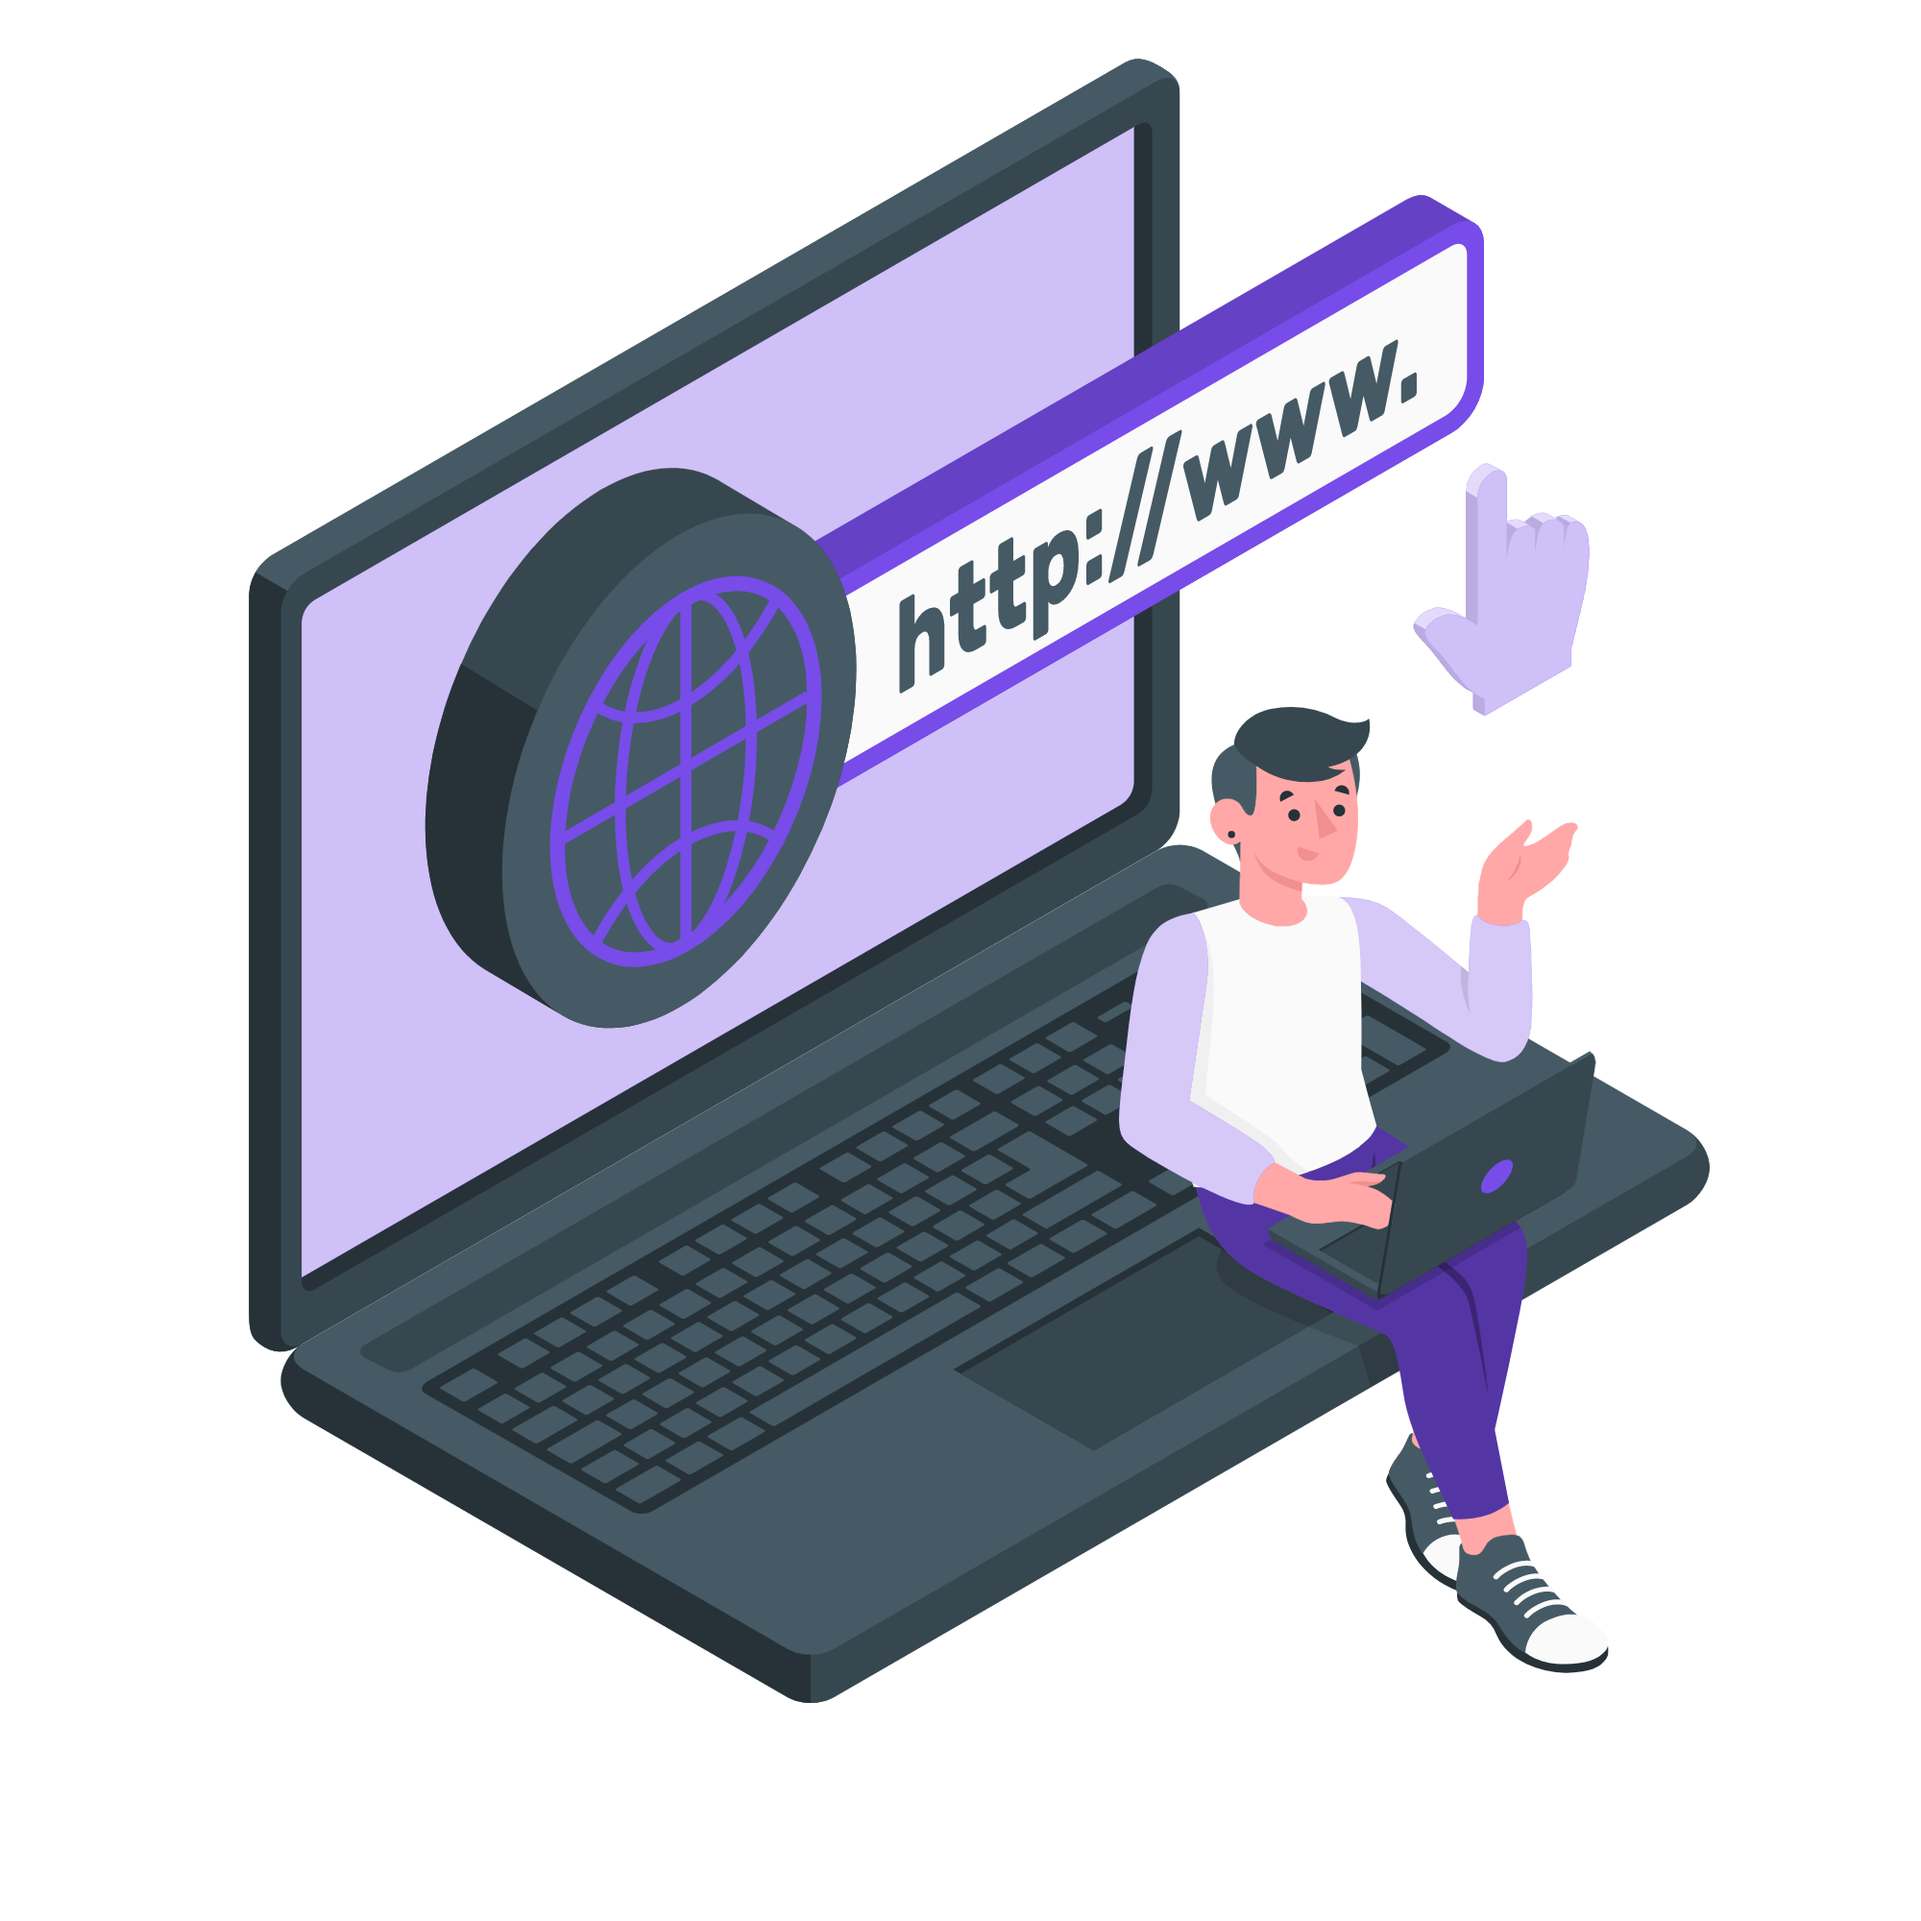
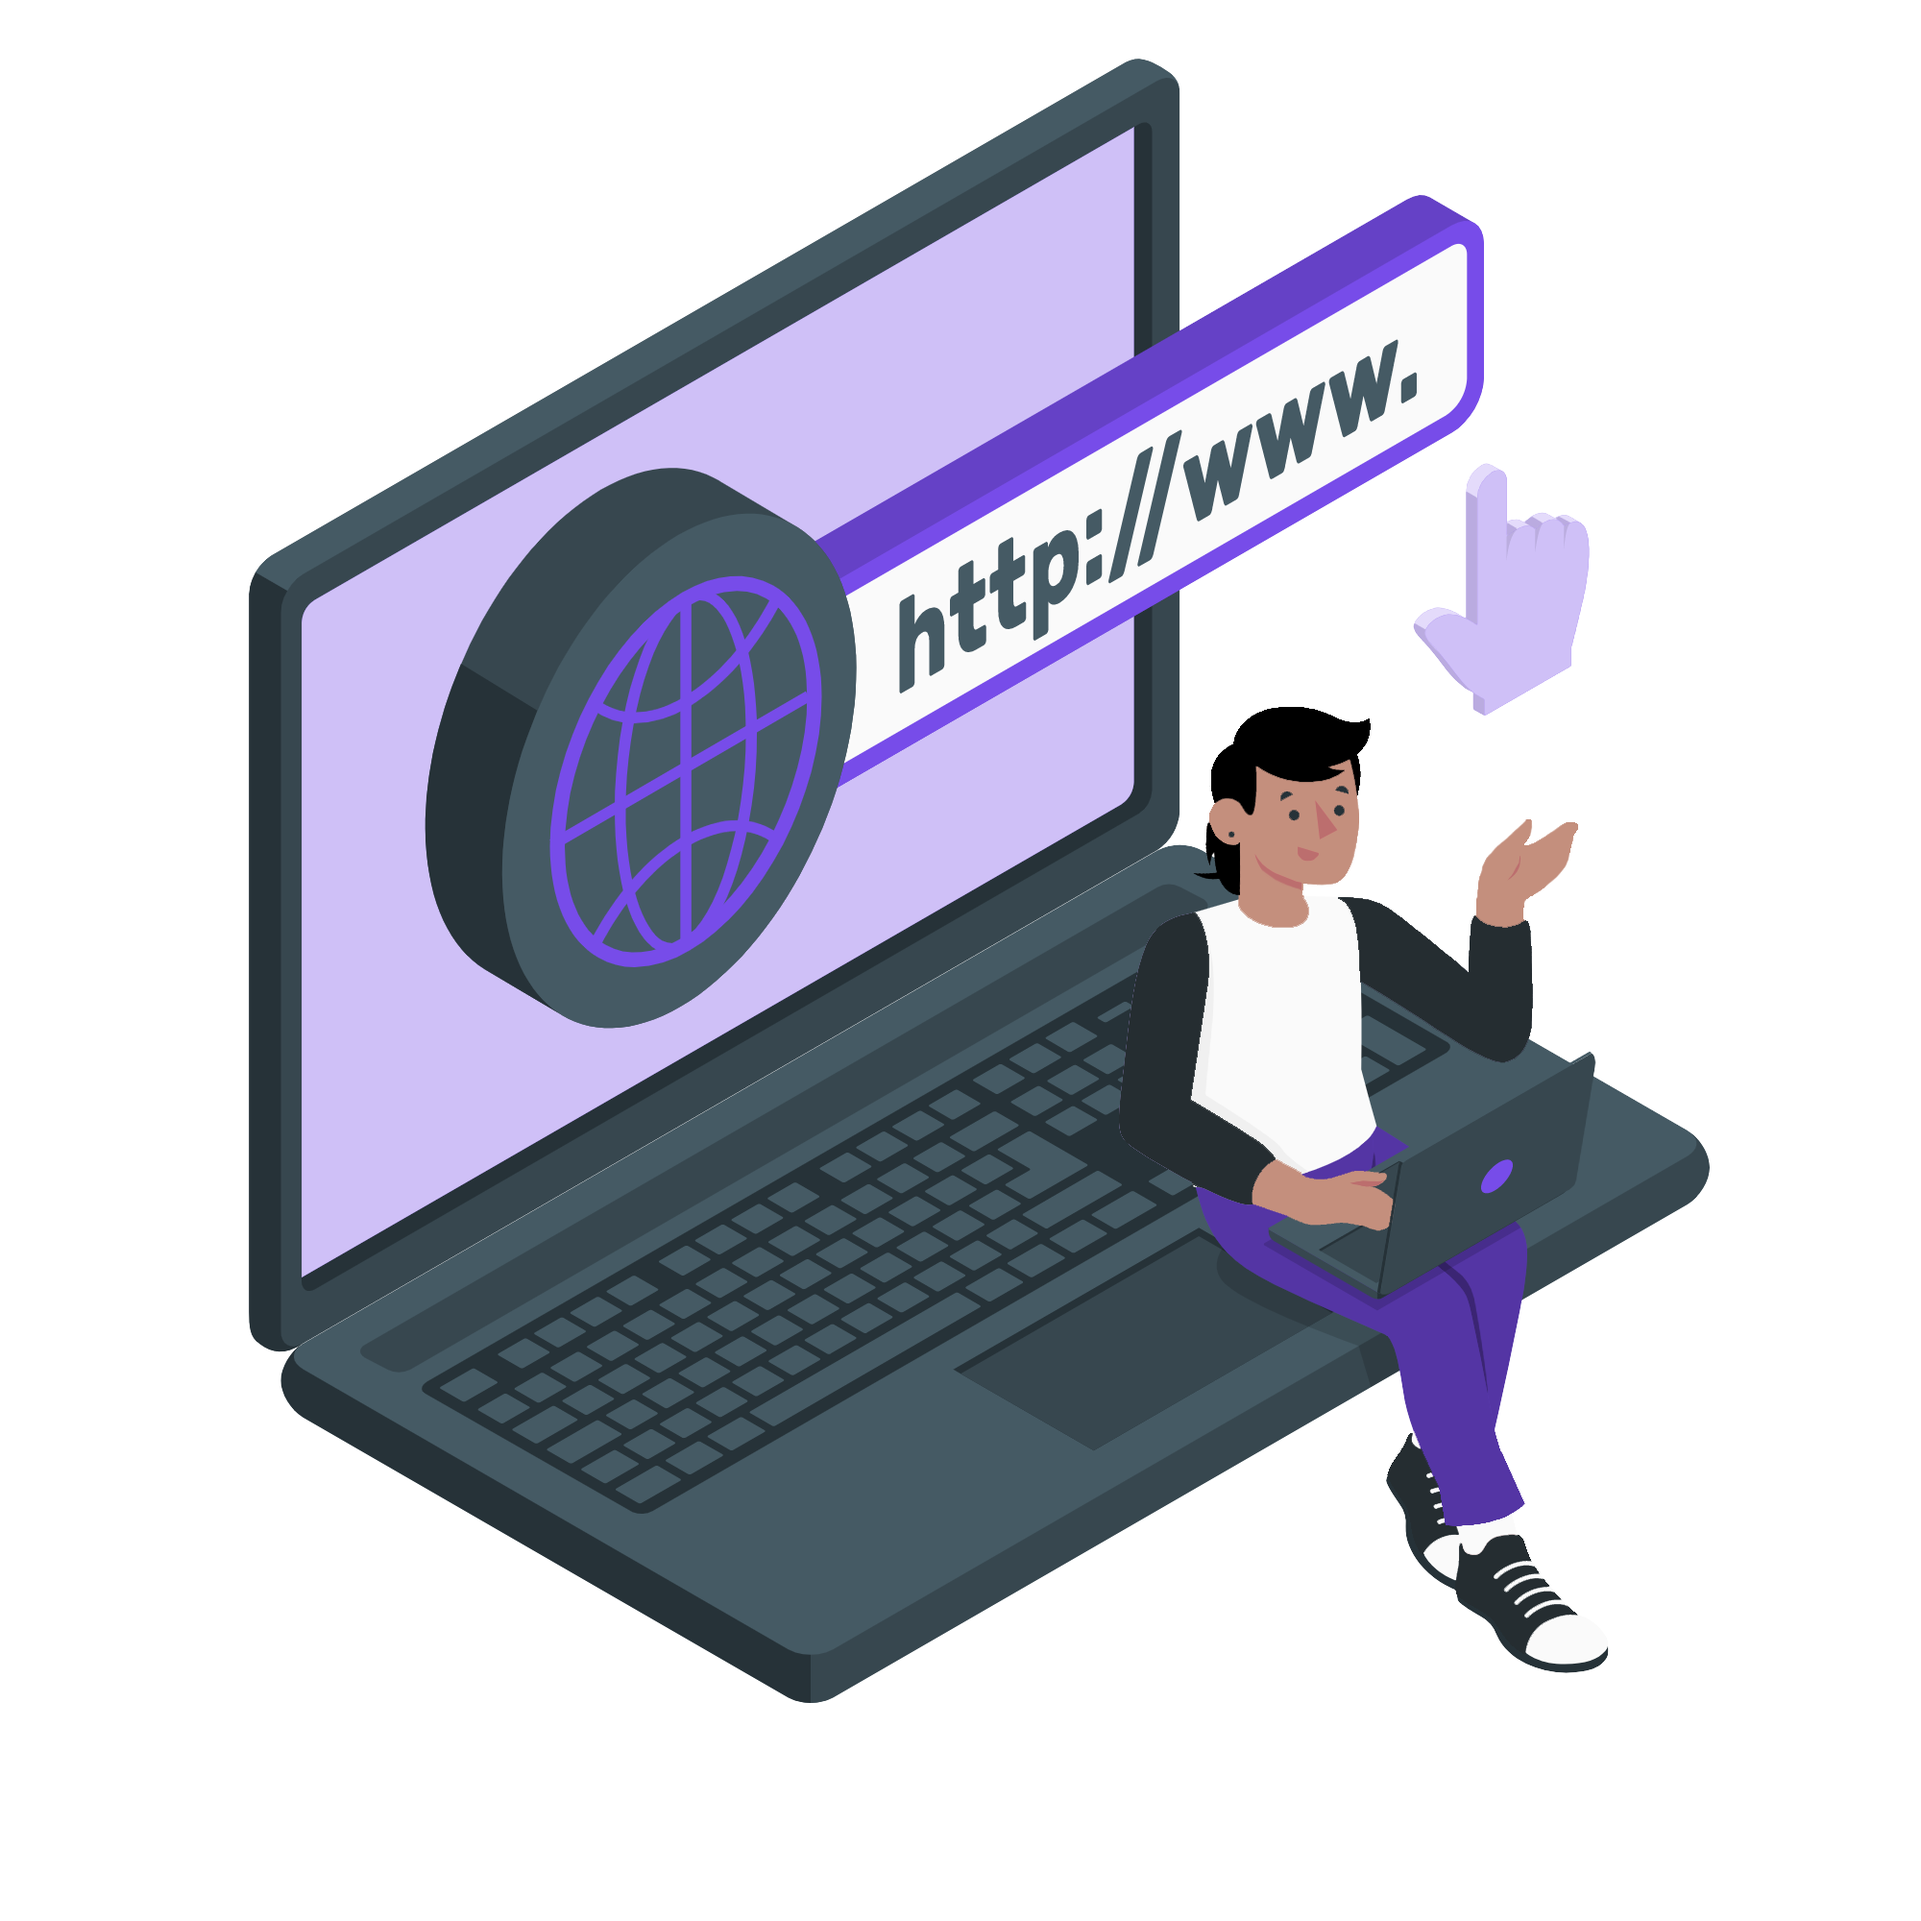
update header png

Changed region(s): [[0.558, 0.372, 0.837, 0.651], [0.713, 0.744, 0.806, 0.868]]

diff --git a/src/Components/Banner.js b/src/Components/Banner.js
@@ -1,7 +1,7 @@
 import { useState, useEffect } from "react";
 import { Container, Row, Col } from "react-bootstrap";
 import { ArrowRightCircle } from 'react-bootstrap-icons';
-import headerImg from "../assets/img/header-img2.svg";
+import headerImg from "../assets/img/header-img2.png";
 import 'animate.css';
 import TrackVisibility from 'react-on-screen';
 
